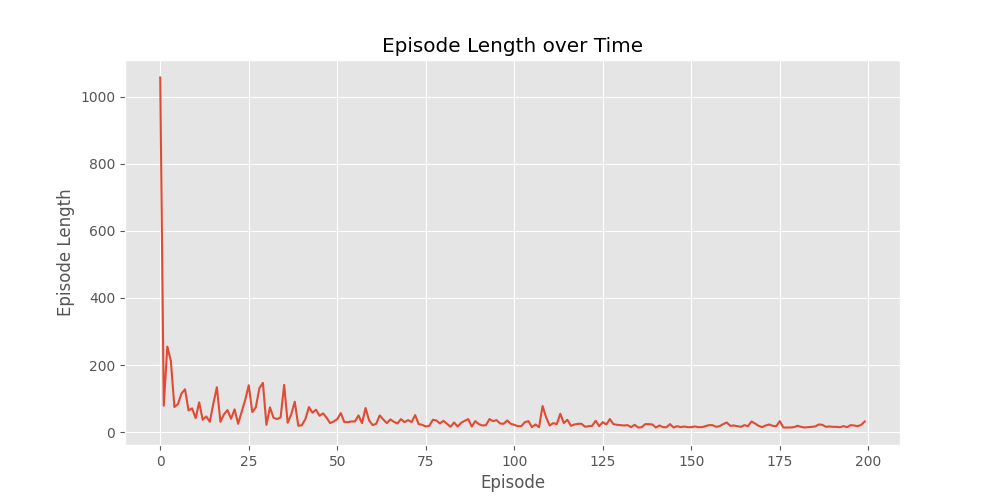
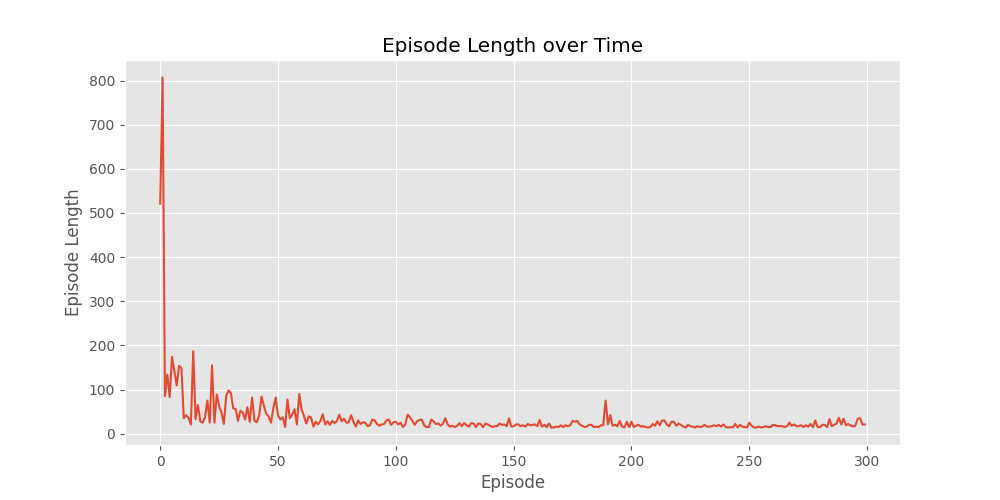
expected_sarsa on policy

diff --git a/TDLearning/expected_sarsa.py b/TDLearning/expected_sarsa.py
@@ -45,10 +45,10 @@ def create_epsilon_greedy_policy(Q, epsilon, nA):
     return policy_fn
 
 
-def sarsa(env, num_episodes, discount_factor=1.0, alpha=0.5, epsilon=0.1):
+def expected_sarsa(env, num_episodes, discount_factor=1.0, alpha=0.5, epsilon=0.1):
     """
-    SARSA algorithm: On-policy TD control. Finds the optimal epsilon-greedy policy.
-    
+    Expected SARSA algorithm: On-policy TD control. Finds the optimal epsilon-greedy policy.
+    Can also be used as Off policy. 
     Args:
         env: OpenAI environment.
         num_episodes: Number of episodes to run for.
@@ -95,7 +95,8 @@ def sarsa(env, num_episodes, discount_factor=1.0, alpha=0.5, epsilon=0.1):
             stats.episode_rewards[i_episode] += reward
             stats.episode_lengths[i_episode] = t
             
-            td_error = reward + discount_factor * Q[next_state][next_action]
+            # expected sarsa error
+            td_error = reward + discount_factor * np.sum([policy(next_state)[a] * Q[next_state][a] for a in range(env.action_space.n)])
             
             Q[state][action] += alpha * (td_error - Q[state][action])
             
@@ -109,5 +110,5 @@ def sarsa(env, num_episodes, discount_factor=1.0, alpha=0.5, epsilon=0.1):
 
 
 if __name__=='__main__':
-    Q, stats = sarsa(env, 300)
-    plots.plot_episode_stats(stats, file='results/sarsa/')
+    Q, stats = expected_sarsa(env, 300)
+    plots.plot_episode_stats(stats, file='results/expected_sarsa/')
